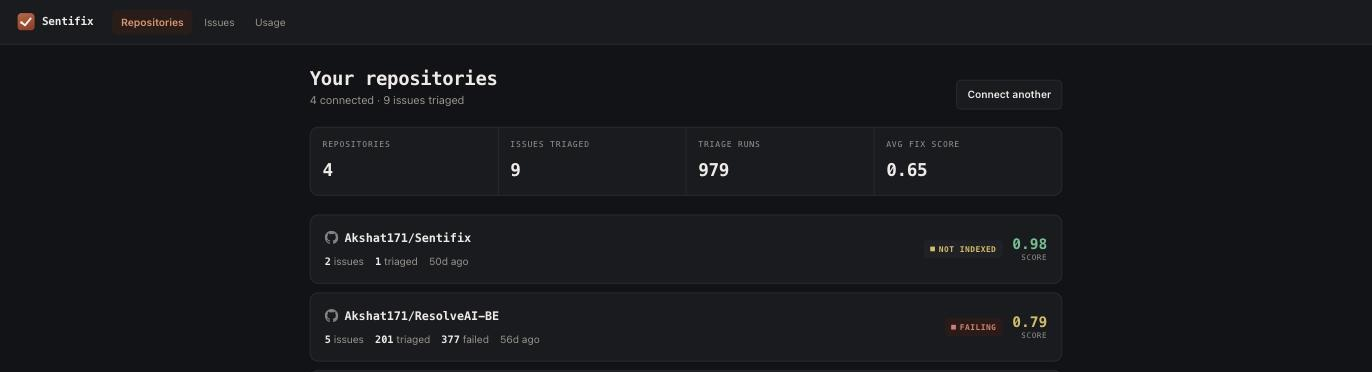
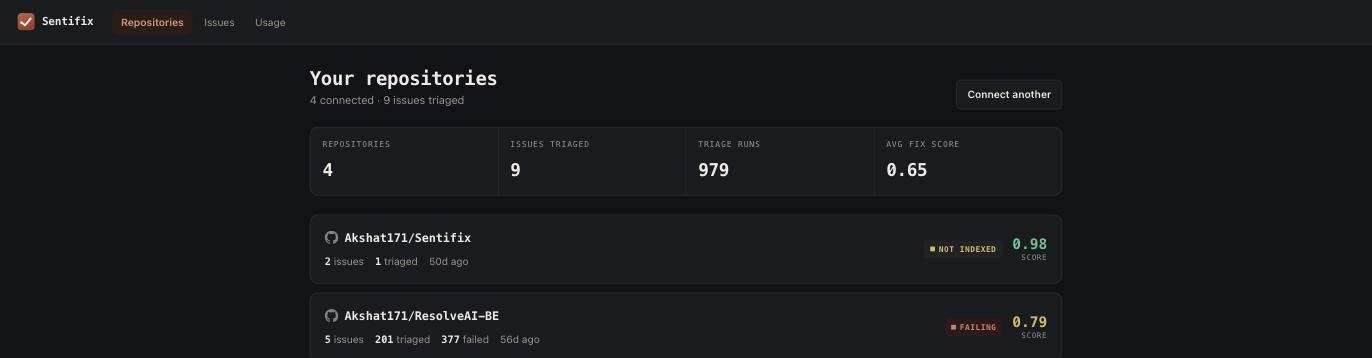
feat(video): build the seven launch-video scenes from real run data
Scene content is generated from the assets in video/public/ by `pnpm data`,
so the diff, the 0.975 eval score and its four-dimension breakdown, the
classification, the root cause and the issue list on screen are the values
actually stored for run 90839933 — not copy written for a video.

Two bugs worth naming, both invisible to tsc and only found by rendering
frames and looking at them:

- The pipeline beats were hard-coded to absolute frames totalling 780, but
  scene 3 gets 540 frames in the 9:16 composition, so proposeFix ran past
  the end of the scene and the diff never appeared in the vertical cut at
  all. Beats are now proportional weights, and the diff's reveal rate is
  derived from whatever duration its beat actually receives.
- Each beat's staggered entrances read scene-level frames rather than
  beat-local ones, so every spring outside the first beat had already
  settled by the time its beat began and the content simply appeared.

Scenes 1 and 5 render their content as native type instead of embedding
screenshots: sharper at any resolution, and it drops four required assets.

Caveat recorded in video/public/ASSETS-STATUS.md: the run driving scenes
3-5 came from the synthetic payload in scripts/test-pipeline.ts. The model
output is genuine, but its file paths do not exist in this repo.

diff --git a/video/src/scenes/Pipeline.tsx b/video/src/scenes/Pipeline.tsx
@@ -10,14 +10,34 @@ import { MONO } from '../fonts';
 import { useCut, type TypeScale } from '../type';
 import { RUN, DIFF_LINES, DIFF_STATS } from '../generated/run-data';
 
-/** Beat boundaries in scene-local frames. Sum must equal the scene's length. */
-const BEATS = [
-  { node: 0, from: 0, to: 150 },
-  { node: 1, from: 150, to: 330 },
-  { node: 2, from: 330, to: 500 },
-  { node: 3, from: 500, to: 560 },
-  { node: 4, from: 560, to: 780 },
+/**
+ * Beat lengths as weights, not frames. The vertical cut gives this scene 540
+ * frames against the landscape cut's 780, so fixed boundaries would run past the
+ * end of the scene and the proposeFix beat — the diff, the whole point — would
+ * never play. Weights scale to whatever duration the composition allots.
+ */
+const BEAT_WEIGHTS = [
+  { node: 0, weight: 150 },
+  { node: 1, weight: 180 },
+  { node: 2, weight: 170 },
+  { node: 3, weight: 60 },
+  { node: 4, weight: 220 },
 ];
+
+const buildBeats = (durationInFrames: number) => {
+  const total = BEAT_WEIGHTS.reduce((sum, b) => sum + b.weight, 0);
+  let at = 0;
+  return BEAT_WEIGHTS.map((b, i) => {
+    const from = at;
+    // The last beat absorbs the rounding remainder so the beats tile exactly.
+    const to =
+      i === BEAT_WEIGHTS.length - 1
+        ? durationInFrames
+        : Math.round(from + (b.weight / total) * durationInFrames);
+    at = to;
+    return { node: b.node, from, to };
+  });
+};
 
 const HANDOFF = 16; // frames spent gliding from one node to the next
 
@@ -207,11 +227,13 @@ const Targeted: React.FC<{ t: TypeScale; local: number }> = ({ t, local }) => (
 );
 
 /** Beat 5 — the real proposed diff, drawn line by line. */
-const ProposeFix: React.FC<{ t: TypeScale; local: number }> = ({ t, local }) => {
+const ProposeFix: React.FC<{ t: TypeScale; local: number; span: number }> = ({ t, local, span }) => {
   const { cut } = useCut();
   const size = cut === 'vertical' ? t.small : t.mono * 0.86;
   const visible = cut === 'vertical' ? 15 : 19;
-  const revealed = Math.max(0, (local - 8) / 2.6);
+  const HOLD = 34; // frames of stillness once the last line lands
+  const framesPerLine = Math.max(1.4, (span - HOLD - 8) / DIFF_LINES.length);
+  const revealed = Math.max(0, (local - 8) / framesPerLine);
   const scroll = Math.max(0, Math.min(DIFF_LINES.length - visible, revealed - visible + 2));
 
   return (
@@ -241,8 +263,10 @@ const ProposeFix: React.FC<{ t: TypeScale; local: number }> = ({ t, local }) => 
 
 export const Pipeline: React.FC = () => {
   const frame = useCurrentFrame();
+  const { durationInFrames } = useVideoConfig();
   const { t } = useCut();
 
+  const BEATS = buildBeats(durationInFrames);
   const beat = BEATS.find((b) => frame >= b.from && frame < b.to) ?? BEATS[BEATS.length - 1];
   const local = frame - beat.from;
   const progress = interpolate(local, [0, beat.to - beat.from], [0, 1], {
@@ -279,7 +303,7 @@ export const Pipeline: React.FC = () => {
             layout="none"
             name={`beat:${beat.node}`}
           >
-            <Body t={t} local={local} />
+            <Body t={t} local={local} span={beat.to - beat.from} />
           </Sequence>
         </div>
       </div>

diff --git a/video/src/scenes/CTA.tsx b/video/src/scenes/CTA.tsx
@@ -27,6 +27,8 @@ export const CTA: React.FC = () => {
   );
   const done = typed[1] === LINES[1].length;
   const links = spring({ fps, frame: frame - (starts[1] + 40), config: ENTER_SPRING });
+  // The terminal fades in with the mark; an empty box on frame 0 looks unfinished.
+  const boxIn = spring({ fps, frame: frame - 10, config: ENTER_SPRING });
 
   return (
     <Stage center>
@@ -43,6 +45,8 @@ export const CTA: React.FC = () => {
           padding: `${t.gap * 1.1}px ${t.gap * 1.3}px`,
           textAlign: 'left',
           minWidth: cut === 'vertical' ? '100%' : 820,
+          opacity: boxIn,
+          transform: `translateY(${(1 - boxIn) * 16}px)`,
         }}
       >
         {LINES.map((line, i) => (

diff --git a/video/src/scenes/ThePile.tsx b/video/src/scenes/ThePile.tsx
@@ -68,6 +68,8 @@ export const ThePile: React.FC = () => {
             // The pile is meant to outgrow its box; clipping at the top edge
             // reads as overflow, whereas overlapping the headline reads as a bug.
             overflow: 'hidden',
+            maskImage: 'linear-gradient(to bottom, transparent 0, #000 92px)',
+            WebkitMaskImage: 'linear-gradient(to bottom, transparent 0, #000 92px)',
           }}
         >
           {rows.map((row, i) => {

diff --git a/video/src/LaunchVideo.tsx b/video/src/LaunchVideo.tsx
@@ -50,7 +50,12 @@ export const LaunchVideo: React.FC<{ cut: 'landscape' | 'vertical' }> = ({ cut }
       })}
 
       {/* The mark parks in the corner once scene 2 has introduced it. */}
-      <Sequence from={offsets[2]} name="watermark" layout="none">
+      <Sequence
+        from={offsets[2]}
+        durationInFrames={offsets[6] - offsets[2]}
+        name="watermark"
+        layout="none"
+      >
         <Watermark />
       </Sequence>
     </AbsoluteFill>

diff --git a/video/src/scenes/Delivery.tsx b/video/src/scenes/Delivery.tsx
@@ -109,6 +109,10 @@ export const Delivery: React.FC = () => {
             opacity: 1 - settle,
             transform: `scale(${1 - settle * 0.06})`,
             flex: 'none',
+            // Collapse the row as it fades; otherwise the invisible cards keep
+            // their space and the dashboard sits under a gap.
+            height: (1 - settle) * (cut === 'vertical' ? 620 : 200),
+            overflow: 'hidden',
           }}
         >
           <Card

diff --git a/video/src/type.ts b/video/src/type.ts
@@ -14,7 +14,7 @@ export interface TypeScale {
  */
 const SCALES: Record<Cut, TypeScale> = {
   landscape: { h1: 84, h2: 50, body: 32, mono: 25, small: 19, pad: 120, gap: 22 },
-  vertical: { h1: 66, h2: 42, body: 33, mono: 24, small: 18, pad: 72, gap: 20 },
+  vertical: { h1: 78, h2: 50, body: 40, mono: 30, small: 22, pad: 64, gap: 24 },
 };
 
 /** Which cut are we rendering? Derived from the frame, never passed down. */

diff --git a/video/README.md b/video/README.md
@@ -26,10 +26,24 @@ scene files. A scene with `vertical: 0` is dropped from the vertical cut.
 
 ## Status
 
-The timing skeleton is built and renders. Every scene in `src/scenes/` is still
-a placeholder — each one imports `SceneSkeleton` and carries a `// TODO:`. Build
-them with the prompt in [`../docs/LAUNCH_VIDEO_PROMPT.md`](../docs/LAUNCH_VIDEO_PROMPT.md);
-a scene is done when it no longer imports `SceneSkeleton`.
+All seven scenes are built and render. `SceneSkeleton` is gone.
+
+Content comes from `src/generated/run-data.ts`, generated by `pnpm data` from
+`public/{run.json,eval.json,diff.txt}` — so the diff, the eval score, the
+classification, the root cause and the issue list on screen are the real stored
+values, not prose written for the video. Re-run `pnpm data` after replacing any
+asset.
+
+Still missing: `music.mp3` (no audio bed yet), and scenes 1 and 5 render their
+content natively rather than from `issue-inbox`/`issue-detail`/`pr`/`slack`
+screenshots — which turned out better than screenshots would have been, since
+the type stays sharp at any resolution.
+
+One thing on screen is illustrative rather than recorded: in the `retrieve` beat,
+the BM25 and vector columns show the run's real retrieved files in two different
+orders. The per-retriever candidate lists are not persisted, so the two orderings
+demonstrate the mechanism rather than replaying a specific ranking. No scores are
+shown, precisely because those were not stored.
 
 ## Assets — required before the scenes can be built
 

diff --git a/docs/LAUNCH_VIDEO_PROMPT.md b/docs/LAUNCH_VIDEO_PROMPT.md
@@ -57,10 +57,18 @@ Real strings only — never invent a fake customer name or a fake metric.
 
 ---
 
-## Step 2 — The prompt
+## Step 2 — The prompt — USED, scenes built 2026-08-25
 
-Paste everything in the block below into Claude Code from the repo root, after
-the assets are in `video/public/`.
+All seven scenes are built and both cuts render. The prompt below is kept as the
+spec: it records what each scene is meant to do, and it is the thing to re-run
+if a scene is rebuilt. Two deliberate departures from it:
+
+- Scenes 1 and 5 render their content as native type rather than embedding
+  `issue-inbox`/`issue-detail`/`pr`/`slack` screenshots. Sharper at any
+  resolution, and those four assets are no longer needed.
+- There is no counter ticking "12 -> 487" in scene 1. That number was invented
+  when the storyboard was written; the scene uses the seven real indexed issues
+  instead and no fabricated total.
 
 ```
 Build the Sentifix launch video in ./video using Remotion 4 + TypeScript.

diff --git a/video/public/ASSETS-STATUS.md b/video/public/ASSETS-STATUS.md
@@ -40,3 +40,15 @@ audio bed cannot be built without them.
 Captures are 1372×885 JPEG (viewport). The manifest targets 2× PNG. Good enough to
 block out scenes 1/5/6; re-capture before the final render. Scenes 3 and 4 don't
 need screenshots at all — they render natively from `diff.txt` and `eval.json`.
+
+## Update — scenes built
+All seven scenes now render from `src/generated/run-data.ts`. Notes:
+
+- `dashboard-real.jpg` is `dashboard.jpg` cropped to its top 372px, which removes
+  the synthetic `acme/my-api` row. Scene 5 uses the cropped file; the uncropped
+  original is kept for reference. Re-crop if you recapture.
+- Scene 1 renders the seven real inbox issues as native type rather than a
+  screenshot, so `issue-inbox.png` and `issue-detail.png` are no longer needed.
+- Scene 5 renders the three delivery surfaces natively, so `pr.png` and
+  `slack.png` are no longer needed either.
+- `music.mp3` is still absent and no `<Audio>` tag is mounted. The cut is silent.
